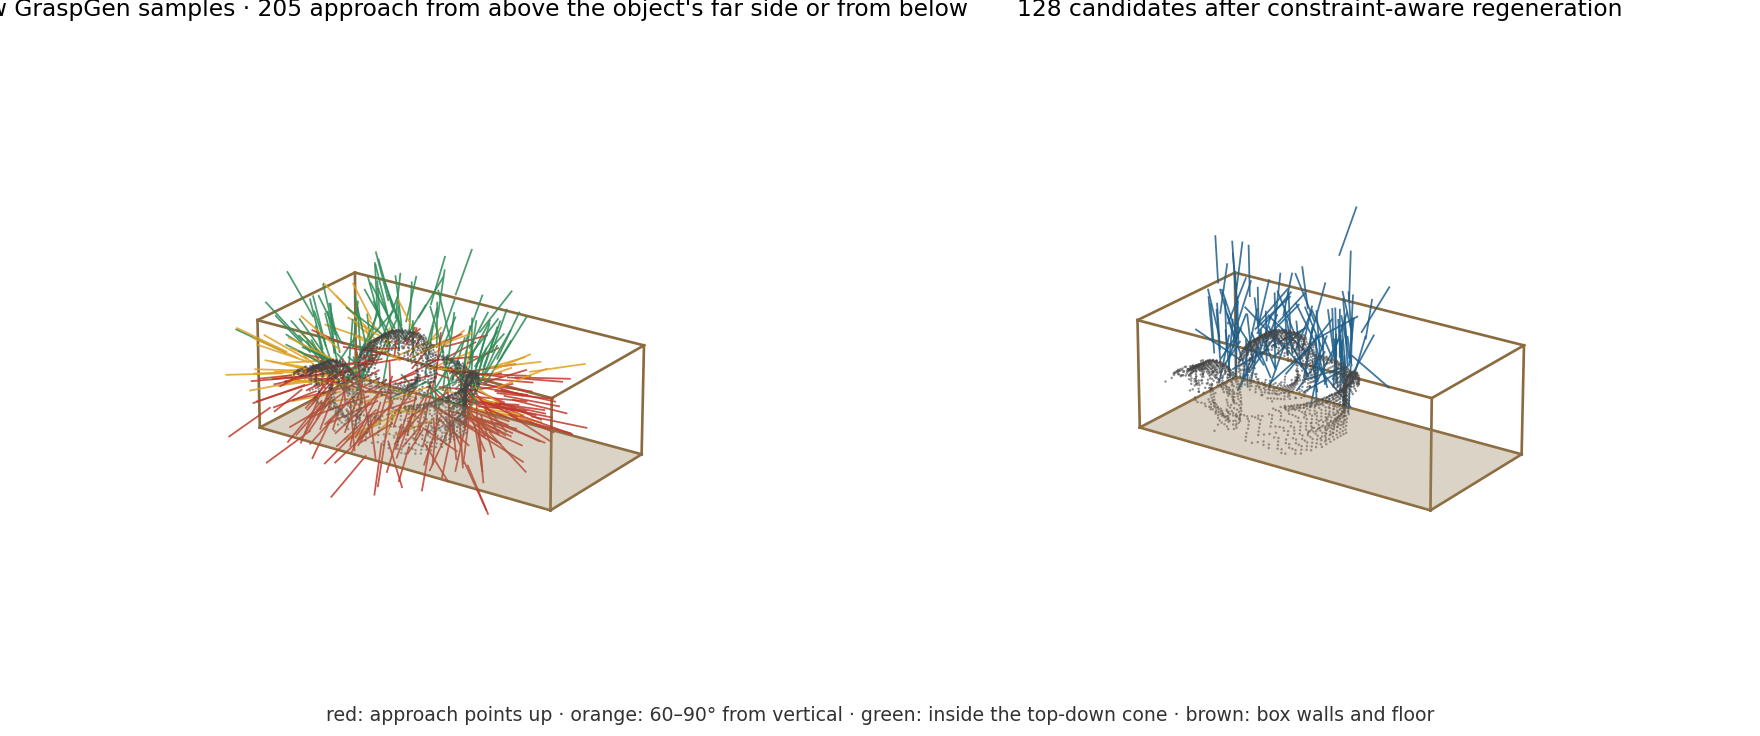
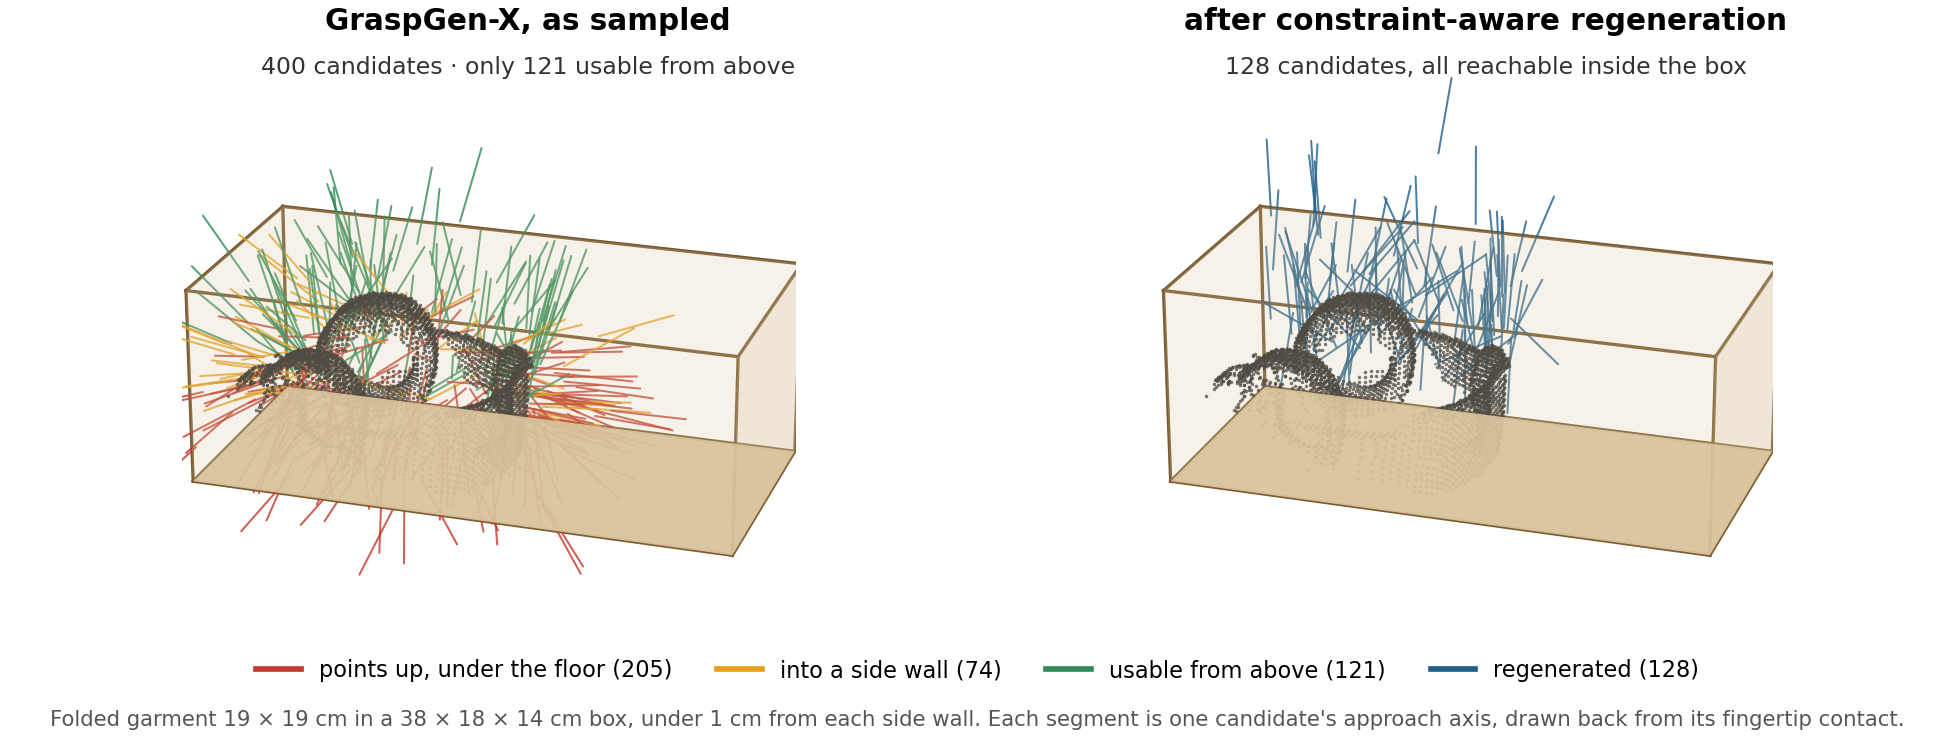
Clearer header figure: solid box, visible object cloud, tighter framing, folded garment example

diff --git a/scripts/make_hedgehog.py b/scripts/make_hedgehog.py
@@ -1,51 +1,89 @@
 #!/usr/bin/env python3
-"""3D view of GraspGen's 400 samples on one object inside the box, before and after
-constraint-aware regeneration. Uses data/examples/<object>.npz and box_geometry.json.
+"""Two 3D views of the same object inside the box: the 400 raw GraspGen-X samples, and
+the candidates left after constraint-aware regeneration.
 
     python scripts/make_hedgehog.py [object]
+
+Reads data/examples/<object>.npz (object_cloud, raw_grasps, regenerated_grasps) and
+data/examples/box_geometry.json. Everything is in the cell's world frame, in metres.
 """
 import json, os, sys
 import numpy as np
 import matplotlib
 matplotlib.use("Agg")
 import matplotlib.pyplot as plt
+from mpl_toolkits.mplot3d.art3d import Poly3DCollection
 
-here = os.path.dirname(os.path.abspath(__file__)); D = os.path.join(here, "..", "data", "examples"); F = os.path.join(here, "..", "figures")
-obj = sys.argv[1] if len(sys.argv) > 1 else "camiseta_doblada"
-z = np.load(os.path.join(D, f"{obj}.npz")); box = json.load(open(os.path.join(D, "box_geometry.json")))
-cloud, raw, reg = z["object_cloud"], z["raw_grasps"], z["regenerated_grasps"]
-L = 0.06                 # drawn length of each gripper stub, from the contact point back along the approach axis
-CO = 0.1365              # GraspGen frame origin -> fingertip contact, along +Z (WSG-50 with our fingers)
+HERE = os.path.dirname(os.path.abspath(__file__))
+D, F = os.path.join(HERE, "..", "data", "examples"), os.path.join(HERE, "..", "figures")
+STUB = 0.055          # drawn length of each approach segment, from the fingertip contact backwards
+CO = 0.1365           # GraspGen frame origin -> fingertip contact along +Z (our WSG-50 descriptor)
+UP, CONE = 90.0, 60.0
+C_UP, C_SIDE, C_CONE, C_REG = "#c0392b", "#e59f1a", "#2e8b57", "#1f5f8b"
+C_CLOUD, C_BOX, C_FLOOR = "#2b2b2b", "#7a5c33", "#d8c39b"
 
-def segs(G):
-    ap = G[:, :3, 2]; p = G[:, :3, 3] + CO * ap          # fingertip contact point
-    return p, p - L * ap, np.degrees(np.arccos(np.clip(-ap[:, 2], -1, 1)))
+def geom(G):
+    ap = G[:, :3, 2]
+    p = G[:, :3, 3] + CO * ap                                   # fingertip contact point
+    return p, p - STUB * ap, np.degrees(np.arccos(np.clip(-ap[:, 2], -1.0, 1.0)))
 
-def draw_box(ax):
-    x0, x1, y0, y1, z0, z1 = (box[k] for k in ("x0", "x1", "y0", "y1", "z0", "z1"))
-    P = np.array([[x0, y0, z0], [x1, y0, z0], [x1, y1, z0], [x0, y1, z0], [x0, y0, z1], [x1, y0, z1], [x1, y1, z1], [x0, y1, z1]])
-    E = [(0, 1), (1, 2), (2, 3), (3, 0), (4, 5), (5, 6), (6, 7), (7, 4), (0, 4), (1, 5), (2, 6), (3, 7)]
-    for a, b in E:
-        ax.plot(*zip(P[a], P[b]), color="#8b6b3e", lw=1.2)
-    xx, yy = np.meshgrid([x0, x1], [y0, y1]); ax.plot_surface(xx, yy, np.full_like(xx, z0), color="#c9a978", alpha=0.35, lw=0)
+def draw_box(ax, b):
+    x0, x1, y0, y1, z0, z1 = (b[k] for k in ("x0", "x1", "y0", "y1", "z0", "z1"))
+    faces = [[(x0, y0, z0), (x1, y0, z0), (x1, y1, z0), (x0, y1, z0)],          # floor
+             [(x0, y1, z0), (x1, y1, z0), (x1, y1, z1), (x0, y1, z1)],          # far wall
+             [(x0, y0, z0), (x0, y1, z0), (x0, y1, z1), (x0, y0, z1)],          # left wall
+             [(x1, y0, z0), (x1, y1, z0), (x1, y1, z1), (x1, y0, z1)]]          # right wall
+    ax.add_collection3d(Poly3DCollection(faces[:1], facecolor=C_FLOOR, edgecolor="none", alpha=0.95, zsort="min"))
+    ax.add_collection3d(Poly3DCollection(faces[1:], facecolor=C_FLOOR, edgecolor="none", alpha=0.22, zsort="min"))
+    P = np.array([[x0, y0, z0], [x1, y0, z0], [x1, y1, z0], [x0, y1, z0],
+                  [x0, y0, z1], [x1, y0, z1], [x1, y1, z1], [x0, y1, z1]])
+    for a, b_ in [(0, 1), (1, 2), (2, 3), (3, 0), (4, 5), (5, 6), (6, 7), (7, 4), (0, 4), (1, 5), (2, 6), (3, 7)]:
+        ax.plot(*zip(P[a], P[b_]), color=C_BOX, lw=1.4, zorder=1)
 
-def panel(ax, G, title, colour):
-    draw_box(ax)
-    ax.scatter(cloud[::2, 0], cloud[::2, 1], cloud[::2, 2], s=1.2, c="#444", alpha=0.6, lw=0)
-    a, b, ang = segs(G)
+def panel(ax, cloud, G, b, colour, title, sub):
+    draw_box(ax, b)
+    ax.scatter(cloud[:, 0], cloud[:, 1], cloud[:, 2], s=2.2, c=C_CLOUD, alpha=0.75, lw=0, depthshade=False)
+    a, c, ang = geom(G)
     for i in range(len(a)):
-        c = colour(ang[i])
-        ax.plot([a[i, 0], b[i, 0]], [a[i, 1], b[i, 1]], [a[i, 2], b[i, 2]], color=c, lw=0.8, alpha=0.85)
-    ax.set_title(title, fontsize=10.5)
-    cx, cy = (box["x0"] + box["x1"]) / 2, (box["y0"] + box["y1"]) / 2; r = 0.21
-    ax.set_xlim(cx - r, cx + r); ax.set_ylim(cy - r, cy + r); ax.set_zlim(box["z0"] - 0.10, box["z0"] + 0.32)
-    ax.set_box_aspect((1, 1, 0.9)); ax.view_init(elev=22, azim=-55); ax.set_axis_off()
+        ax.plot([a[i, 0], c[i, 0]], [a[i, 1], c[i, 1]], [a[i, 2], c[i, 2]],
+                color=colour(ang[i]), lw=0.85, alpha=0.8, solid_capstyle="round")
+    cx, cy, cz = (b["x0"] + b["x1"]) / 2, (b["y0"] + b["y1"]) / 2, b["z0"]
+    hx = (b["x1"] - b["x0"]) / 2 + 0.035
+    ax.set_xlim(cx - hx, cx + hx); ax.set_ylim(cy - hx, cy + hx); ax.set_zlim(cz - 0.085, cz + 1.15 * hx)
+    ax.set_box_aspect((2 * hx, 2 * hx, 1.15 * hx + 0.085), zoom=1.75)
+    ax.view_init(elev=22, azim=-72); ax.set_axis_off()
+    return title, sub
 
-fig = plt.figure(figsize=(11, 4.6))
-ax1 = fig.add_subplot(1, 2, 1, projection="3d"); ax2 = fig.add_subplot(1, 2, 2, projection="3d")
-n_up = int((segs(raw)[2] > 90).sum())
-panel(ax1, raw, f"400 raw GraspGen samples · {n_up} approach from above the object's far side or from below", lambda t: "#c0392b" if t > 90 else ("#e0a020" if t > 60 else "#2e8b57"))
-panel(ax2, reg, f"{len(reg)} candidates after constraint-aware regeneration", lambda t: "#1f5f8b")
-fig.text(0.5, 0.02, "red: approach points up · orange: 60–90° from vertical · green: inside the top-down cone · brown: box walls and floor", ha="center", fontsize=8.5, color="#333")
-fig.subplots_adjust(left=0.0, right=1.0, top=0.96, bottom=0.05, wspace=0.0); fig.savefig(os.path.join(F, f"fig0_hedgehog_{obj}.png"), dpi=160); plt.close(fig)
-print(f"{obj}: raw {len(raw)} (up {n_up}) -> regenerated {len(reg)}")
+def main() -> int:
+    obj = sys.argv[1] if len(sys.argv) > 1 else "camiseta_doblada"
+    z = np.load(os.path.join(D, f"{obj}.npz")); b = json.load(open(os.path.join(D, "box_geometry.json")))
+    cloud, raw, reg = z["object_cloud"], z["raw_grasps"], z["regenerated_grasps"]
+    ang = geom(raw)[2]
+    n_up, n_side, n_cone = int((ang > UP).sum()), int(((ang > CONE) & (ang <= UP)).sum()), int((ang <= CONE).sum())
+
+    fig = plt.figure(figsize=(11.5, 4.35))
+    ax1 = fig.add_subplot(1, 2, 1, projection="3d"); ax2 = fig.add_subplot(1, 2, 2, projection="3d")
+    panel(ax1, cloud, raw, b, lambda t: C_UP if t > UP else (C_SIDE if t > CONE else C_CONE), "", "")
+    panel(ax2, cloud, reg, b, lambda t: C_REG, "", "")
+    for x, t, sub in ((0.27, "GraspGen-X, as sampled", f"400 candidates · only {n_cone} usable from above"),
+                      (0.76, "after constraint-aware regeneration", f"{len(reg)} candidates, all reachable inside the box")):
+        fig.text(x, 0.96, t, ha="center", fontsize=12.5, fontweight="bold")
+        fig.text(x, 0.90, sub, ha="center", fontsize=10, color="#333")
+    hs = [plt.Line2D([], [], color=c, lw=2.4) for c in (C_UP, C_SIDE, C_CONE, C_REG)]
+    fig.legend(hs, [f"points up, under the floor ({n_up})", f"into a side wall ({n_side})",
+                    f"usable from above ({n_cone})", f"regenerated ({len(reg)})"],
+               loc="lower center", ncol=4, frameon=False, fontsize=9.5, bbox_to_anchor=(0.5, 0.05))
+    ext = 100 * (cloud.max(0) - cloud.min(0))
+    fig.text(0.5, 0.018, f"Folded garment {ext[0]:.0f} × {ext[1]:.0f} cm in a "
+                         f"{100 * (b['x1'] - b['x0']):.0f} × {100 * (b['y1'] - b['y0']):.0f} × "
+                         f"{100 * (b['z1'] - b['z0']):.0f} cm box, under 1 cm from each side wall. "
+                         f"Each segment is one candidate's approach axis, drawn back from its fingertip contact.",
+             ha="center", fontsize=9, color="#555")
+    fig.subplots_adjust(left=0.0, right=1.0, top=0.93, bottom=0.10, wspace=0.0)
+    out = os.path.join(F, f"fig0_hedgehog_{obj}.png")
+    fig.savefig(out, dpi=170); plt.close(fig)
+    print(f"{obj}: raw 400 (up {n_up}, side {n_side}, cone {n_cone}) -> regenerated {len(reg)} · {out}")
+    return 0
+
+if __name__ == "__main__":
+    raise SystemExit(main())

diff --git a/README.md b/README.md
@@ -9,7 +9,12 @@
 <img alt="License" src="https://img.shields.io/badge/License-MIT-lightgrey">
 </p>
 
-![raw vs regenerated candidates inside the box](figures/fig0_hedgehog_yellow_trim.png)
+![raw vs regenerated candidates inside the box](figures/fig0_hedgehog_camiseta_doblada.png)
+
+<sub>The same folded t-shirt, the same 400 GraspGen-X samples. Left: as sampled — half of
+them approach from under the box floor, most of the rest through a side wall, 55 are
+usable from above. Right: after regenerating each candidate under the container's
+constraints.</sub>
 
 **What this is.** Numbers, figures and per-candidate data from running
 [GraspGen-X](https://github.com/NVlabs/GraspGenX) (`b942909`) as the grasp generator of a
